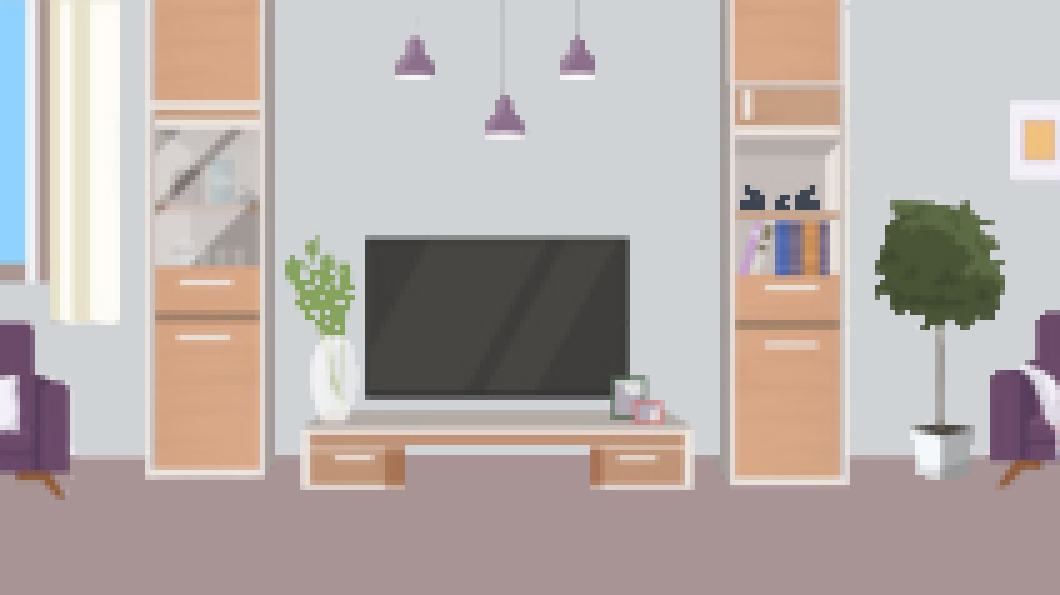
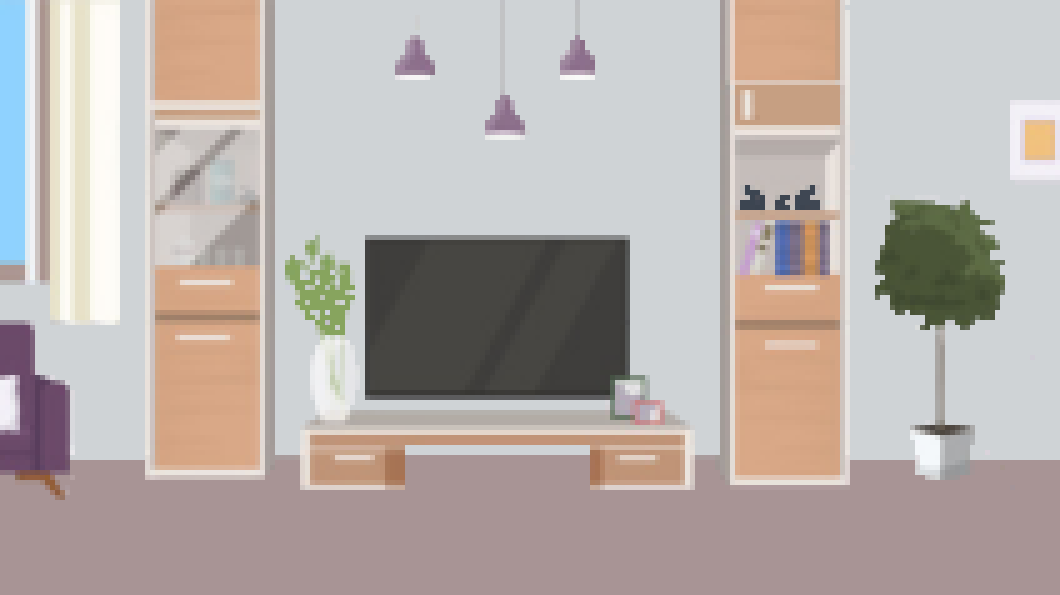
more zoom

diff --git a/docs/js/main.js b/docs/js/main.js
@@ -357,7 +357,7 @@ var Level1click = (function () {
     function Level1click() {
         this.setFurniture();
         this.setBackground();
-        new Hint(70.7, 9, 12.5, 8.6, "dummy text dummy text dummy text dummy text dummy text dummy text dummy text dummy text dummy text dummy text");
+        new Hint(70.7, 9, 12.5, 8.6, "The room is quiet and devoid of life, yet there is something that isnt. Its whispering silently, as not to be heared. It seems like its soul is imprisoned.");
         new Inventory();
     }
     Level1click.prototype.setBackground = function () {
@@ -526,13 +526,14 @@ var Level6click = (function () {
         home.addEventListener('click', function () { return new Startscreen; });
     };
     Level6click.prototype.setFurniture = function () {
-        new Furniture(7.9, 36.7, 6, 43.4, "unicorn_laser", "url(assets/long_lamp.png)");
-        new Furniture(28.7, 0, 12.3, 21.7, "unicorn_rifle", "url(assets/ceiling_lamp.png)");
-        new Furniture(30.6, 28.3, 7.6, 21.7, "none", "url(assets/long_frame.png)");
-        new Furniture(78.4, 41.5, 5.7, 10.3, "none", "url(assets/small_frame.png)");
-        new Furniture(62.5, 51.6, 2, 8.4, "unicorn_gun", "url(assets/book.png)");
-        new Furniture(46.6, 66.7, 2.8, 5, "unicorn_gun", "url(assets/mug.png)");
-        new EvilFurniture(83.1, 61.7, 5.6, 16.5, "url(assets/fire.png)");
+        new Furniture(52.8, 0, 6, 13.5, "", "url(assets/small_ceiling_lamp.png)");
+        new Furniture(28.7, 0, 12.3, 21.7, "", "url(assets/small_cabinet.png)");
+        new Furniture(30.6, 28.3, 7.6, 21.7, "", "url(assets/big_plant.png)");
+        new Furniture(78.4, 41.5, 5.7, 10.3, "", "url(assets/white_plantpot.png)");
+        new Furniture(62.5, 51.6, 2, 8.4, "", "url(assets/small_bunny.png)");
+        new Furniture(46.6, 66.7, 2.8, 5, "", "url(assets/two_frames.png)");
+        new Furniture(46.6, 66.7, 2.8, 5, "", "url(assets/large_bunny.png)");
+        new EvilFurniture(83.1, 61.7, 5.6, 16.5, "url(assets/large_cabinet.png)");
     };
     return Level6click;
 }());
@@ -555,9 +556,9 @@ var Hint = (function () {
         hint.innerHTML = "<p>" + message + "</p>";
         hint.addEventListener('click', zoomin);
         function zoomin() {
-            game.style.zoom = "300%";
-            var xzoom = x - h;
-            var yzoom = y - w;
+            game.style.zoom = "500%";
+            var xzoom = x - h / 2;
+            var yzoom = y - w / 2;
             if (xzoom < 0) {
                 xzoom = 0;
             }

diff --git a/dev/game.ts b/dev/game.ts
@@ -223,7 +223,7 @@ class Level1click{
     constructor(){
         this.setFurniture()
         this.setBackground()
-        new Hint(70.7,9,12.5,8.6,"dummy text dummy text dummy text dummy text dummy text dummy text dummy text dummy text dummy text dummy text")
+        new Hint(70.7,9,12.5,8.6,"The room is quiet and devoid of life, yet there is something that isnt. Its whispering silently, as not to be heared. It seems like its soul is imprisoned.")
         new Inventory()
 
     }
@@ -421,14 +421,16 @@ class Level6click{
     }
 
     setFurniture(){
-        new Furniture(7.9,36.7,6,43.4,"unicorn_laser","url(assets/long_lamp.png)")
-        new Furniture(28.7,0,12.3,21.7,"unicorn_rifle","url(assets/ceiling_lamp.png)")
-        new Furniture(30.6,28.3,7.6,21.7,"none","url(assets/long_frame.png)")
-        new Furniture(78.4,41.5,5.7,10.3,"none","url(assets/small_frame.png)")
-        new Furniture(62.5,51.6,2,8.4,"unicorn_gun","url(assets/book.png)")
-        new Furniture(46.6,66.7,2.8,5,"unicorn_gun","url(assets/mug.png)") 
+        new Furniture(52.8,0,6,13.5,"","url(assets/small_ceiling_lamp.png)")
 
-        new EvilFurniture(83.1,61.7,5.6,16.5,"url(assets/fire.png)")
+        new Furniture(28.7,0,12.3,21.7,"","url(assets/small_cabinet.png)")
+        new Furniture(30.6,28.3,7.6,21.7,"","url(assets/big_plant.png)")
+        new Furniture(78.4,41.5,5.7,10.3,"","url(assets/white_plantpot.png)")
+        new Furniture(62.5,51.6,2,8.4,"","url(assets/small_bunny.png)")
+        new Furniture(46.6,66.7,2.8,5,"","url(assets/two_frames.png)")
+        new Furniture(46.6,66.7,2.8,5,"","url(assets/large_bunny.png)") 
+
+        new EvilFurniture(83.1,61.7,5.6,16.5,"url(assets/large_cabinet.png)")
     }
 }
 

diff --git a/dev/hint.ts b/dev/hint.ts
@@ -18,9 +18,9 @@ class Hint{
         
 
         function zoomin(){
-            game.style.zoom = "300%"
-            let xzoom = x - h
-            let yzoom = y - w 
+            game.style.zoom = "500%"
+            let xzoom = x - h / 2
+            let yzoom = y - w / 2
 
             if(xzoom < 0){
                 xzoom = 0

diff --git a/docs/css/style.css b/docs/css/style.css
@@ -189,7 +189,7 @@
 
     hint{
         position:absolute;
-        font-size: 1.5vh;
+        font-size: 1vh;
         text-align:center;
         padding:2px;
         background-repeat: no-repeat;
